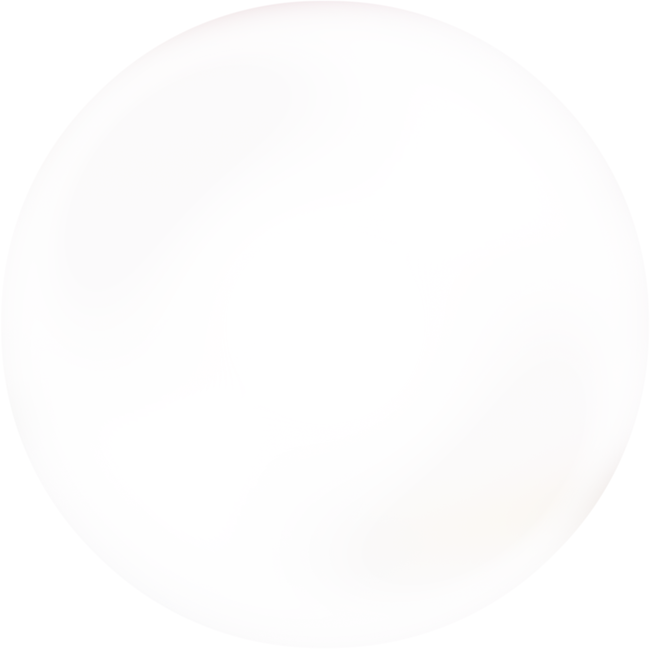
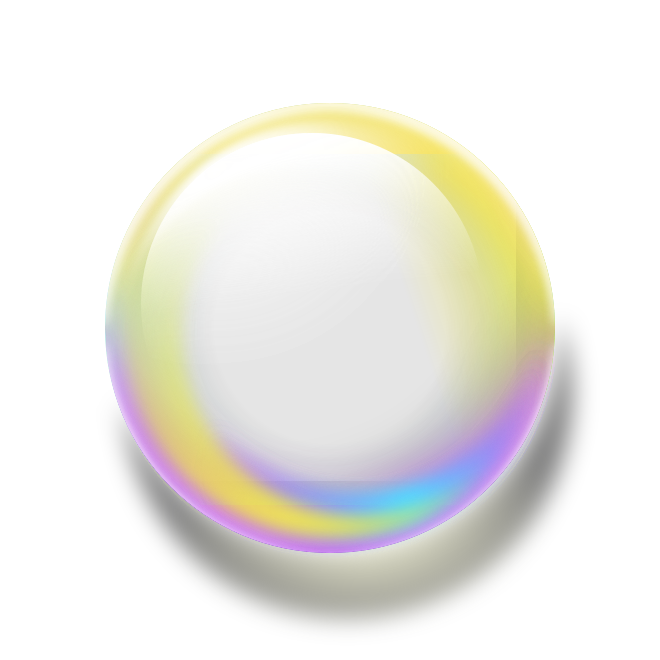
更新泡泡图片，图片自带阴影，TheForce支持设置粒子有效大小

diff --git a/TheForce.qml b/TheForce.qml
@@ -43,12 +43,15 @@ Affector {
     property real velocityFactor: 1.1
     // 每次碰撞减少的生命值，单位为秒
     property real lifeElapse: 2
+    // 忽略粒子的margins，取值范围为 0-1，忽略的像素 = particleMargins * particle.startSize
+    // 在任何需要使用粒子大小的地方都会减去此margins
+    property real particleMargins: 0
     // 用于计算粒子之间的碰撞信息，求最大碰撞深度（两个物体重合部分的最大宽度），并且返回碰撞点
     // 默认的方法是用来处理圆形
     property var intersectInfo: function intersectSize(c1, c2) {
         // 圆心的距离
         var pd = Qt.vector2d(c1.x - c2.x, c1.y - c2.y).length();
-        var depth = (c2.startSize + c1.startSize) / 2 - pd;
+        var depth = (d_ptr.particleSize(c2) + d_ptr.particleSize(c1)) / 2 - pd;
 
         // 圆之间未相交时直接返回
         if (depth <= 0) {
@@ -57,8 +60,8 @@ Affector {
 
         return {
             "depth": depth,
-            "point": Qt.point(c2.x - (c2.x - c1.x) * c2.startSize / pd / 2,
-                              c2.y - (c2.y - c1.y) * c2.startSize / pd / 2)
+            "point": Qt.point(c2.x - (c2.x - c1.x) * d_ptr.particleSize(c2) / pd / 2,
+                              c2.y - (c2.y - c1.y) * d_ptr.particleSize(c2) / pd / 2)
         }
     }
 
@@ -70,6 +73,10 @@ Affector {
 
         // 为粒子分配 id
         property int particleId: 0
+
+        function particleSize(particle) {
+            return particle.startSize * (1 - particleMargins);
+        }
 
         function rectContains(rect, point) {
             return rect.x <= point.x && rect.y <= point.y && rect.right >= point.x && rect.bottom >= point.y;
@@ -143,8 +150,8 @@ Affector {
                 // 所以，粒子p在x y方向上所携带的动能为(用矢量表示)：
                 var p1px = Qt.vector2d(particle.vx, 0);
                 var p1py = Qt.vector2d(0, particle.vy);
-                var p2px = Qt.vector2d(p2.vx * p2.startSize / particle.startSize, 0);
-                var p2py = Qt.vector2d(0, p2.vy * p2.startSize / particle.startSize);
+                var p2px = Qt.vector2d(p2.vx * d_ptr.particleSize(p2) / d_ptr.particleSize(particle), 0);
+                var p2py = Qt.vector2d(0, p2.vy * d_ptr.particleSize(p2) / d_ptr.particleSize(particle));
 
                 // 接下来求出粒子在碰撞方向所携带的动能，根据初中物理做力的分解:
                 // 我们假设粒子的中心点x y为其重心，则重心到碰撞点为粒子对基友碰撞所产生的力的方向
@@ -182,18 +189,18 @@ Affector {
                 p2px = p2pixi.plus(p2pixj);
                 p2py = p2piyi.plus(p2piyj);
 
-//                var oldPower = (Math.abs(particle.vx) + Math.abs(particle.vy)) * particle.startSize
-//                                + (Math.abs(p2.vx) + Math.abs(p2.vy)) * p2.startSize;
+//                var oldPower = (Math.abs(particle.vx) + Math.abs(particle.vy)) * d_ptr.particleSize(particle)
+//                                + (Math.abs(p2.vx) + Math.abs(p2.vy)) * d_ptr.particleSize(p2);
 //                console.log(particle.vx, particle.vy, p2.vx, p2.vy, oldPower)
 
                 // 重新设置粒子的速度, 快速衰减速度
                 particle.vx = p2px.x / velocityFactor / velocityFactor;
                 particle.vy = p2py.y / velocityFactor / velocityFactor;
-                p2.vx = p1px.x / p2.startSize * particle.startSize / velocityFactor / velocityFactor;
-                p2.vy = p1py.y / p2.startSize * particle.startSize / velocityFactor / velocityFactor;
+                p2.vx = p1px.x / d_ptr.particleSize(p2) * d_ptr.particleSize(particle) / velocityFactor / velocityFactor;
+                p2.vy = p1py.y / d_ptr.particleSize(p2) * d_ptr.particleSize(particle) / velocityFactor / velocityFactor;
 
-//                var newPower = (Math.abs(particle.vx) + Math.abs(particle.vy)) * particle.startSize
-//                                + (Math.abs(p2.vx) + Math.abs(p2.vy)) * p2.startSize;
+//                var newPower = (Math.abs(particle.vx) + Math.abs(particle.vy)) * d_ptr.particleSize(particle)
+//                                + (Math.abs(p2.vx) + Math.abs(p2.vy)) * d_ptr.particleSize(p2);
 
 //                console.log(particle.vx, particle.vy, p2.vx, p2.vy, newPower)
 //                console.log(p2.vx, p2.vy, p2px.x, p2py.y, p2px, p2py)

diff --git a/main.qml b/main.qml
@@ -2,14 +2,8 @@ import QtQuick 2.10
 import QtQuick.Window 2.10
 import QtQuick.Particles 2.0
 
-Window {
-    id: rootWindow
-
-    width: 800
-    height: 500
-    visibility: Window.FullScreen
-    visible: true
-    color: "black"
+Item {
+    anchors.fill: parent
 
     ParticleSystem {
         id: particles
@@ -17,9 +11,10 @@ Window {
 
     ImageParticle {
         source: Qt.resolvedUrl("qrc:/pp.png")
-        colorVariation: 0.5
+        colorVariation: 0.4
         autoRotation: false
         system: particles
+        groups: ["pp"]
     }
 
     //  将粒子减速
@@ -60,6 +55,7 @@ Window {
         system: particles
         angle: 90
         magnitude: 1
+        groups: ["pp"]
     }
 
     // 气流，放到发射区域，防止泡泡都堵在发射口
@@ -70,9 +66,10 @@ Window {
             bottom: parent.bottom
         }
 
-        width: rootWindow.width / 2
-        height: rootWindow.height / 2
+        width: parent.width / 2
+        height: parent.height / 2
         strength: 50
+        groups: ["pp"]
 
 //        DebugArea {
 //            anchors.fill: parent
@@ -85,6 +82,8 @@ Window {
     TheForce {
         system: particles
         anchors.fill: parent
+        groups: ["pp"]
+        particleMargins: 0.3183183182
 
         onImpacted: {
             p1.green = [p2.red, p2.red = p1.green][0]
@@ -103,17 +102,18 @@ Window {
         system: particles
         width: size
         height: size
+        group: "pp"
 
         anchors {
             bottom: parent.bottom
             left: parent.left
         }
 
-        emitRate: 0.4
+        emitRate: 0.8
         lifeSpan: 60000
-        size: 100
+        size: 150
         sizeVariation: 10
-        velocity: AngleDirection { angle: -45; angleVariation: 30; magnitude: 200; magnitudeVariation: 50 }
+        velocity: AngleDirection { angle: -45; angleVariation: 30; magnitude: 300; magnitudeVariation: 50 }
 //        maximumEmitted: 3
 
 //        DebugArea {

diff --git a/main.cpp b/main.cpp
@@ -1,16 +1,21 @@
 #include <QGuiApplication>
-#include <QQmlApplicationEngine>
+#include <QQmlEngine>
+#include <QQuickView>
 
 int main(int argc, char *argv[])
 {
     QCoreApplication::setAttribute(Qt::AA_EnableHighDpiScaling);
 
     QGuiApplication app(argc, argv);
+    QQuickView window;
+    QSurfaceFormat sf = window.format();
 
-    QQmlApplicationEngine engine;
-    engine.load(QUrl(QStringLiteral("qrc:/main.qml")));
-    if (engine.rootObjects().isEmpty())
-        return -1;
+    sf.setAlphaBufferSize(8);
+
+    window.setFormat(sf);
+    window.setSource(QUrl(QStringLiteral("qrc:/main.qml")));
+    window.setColor(Qt::transparent);
+    window.showFullScreen();
 
     return app.exec();
 }
